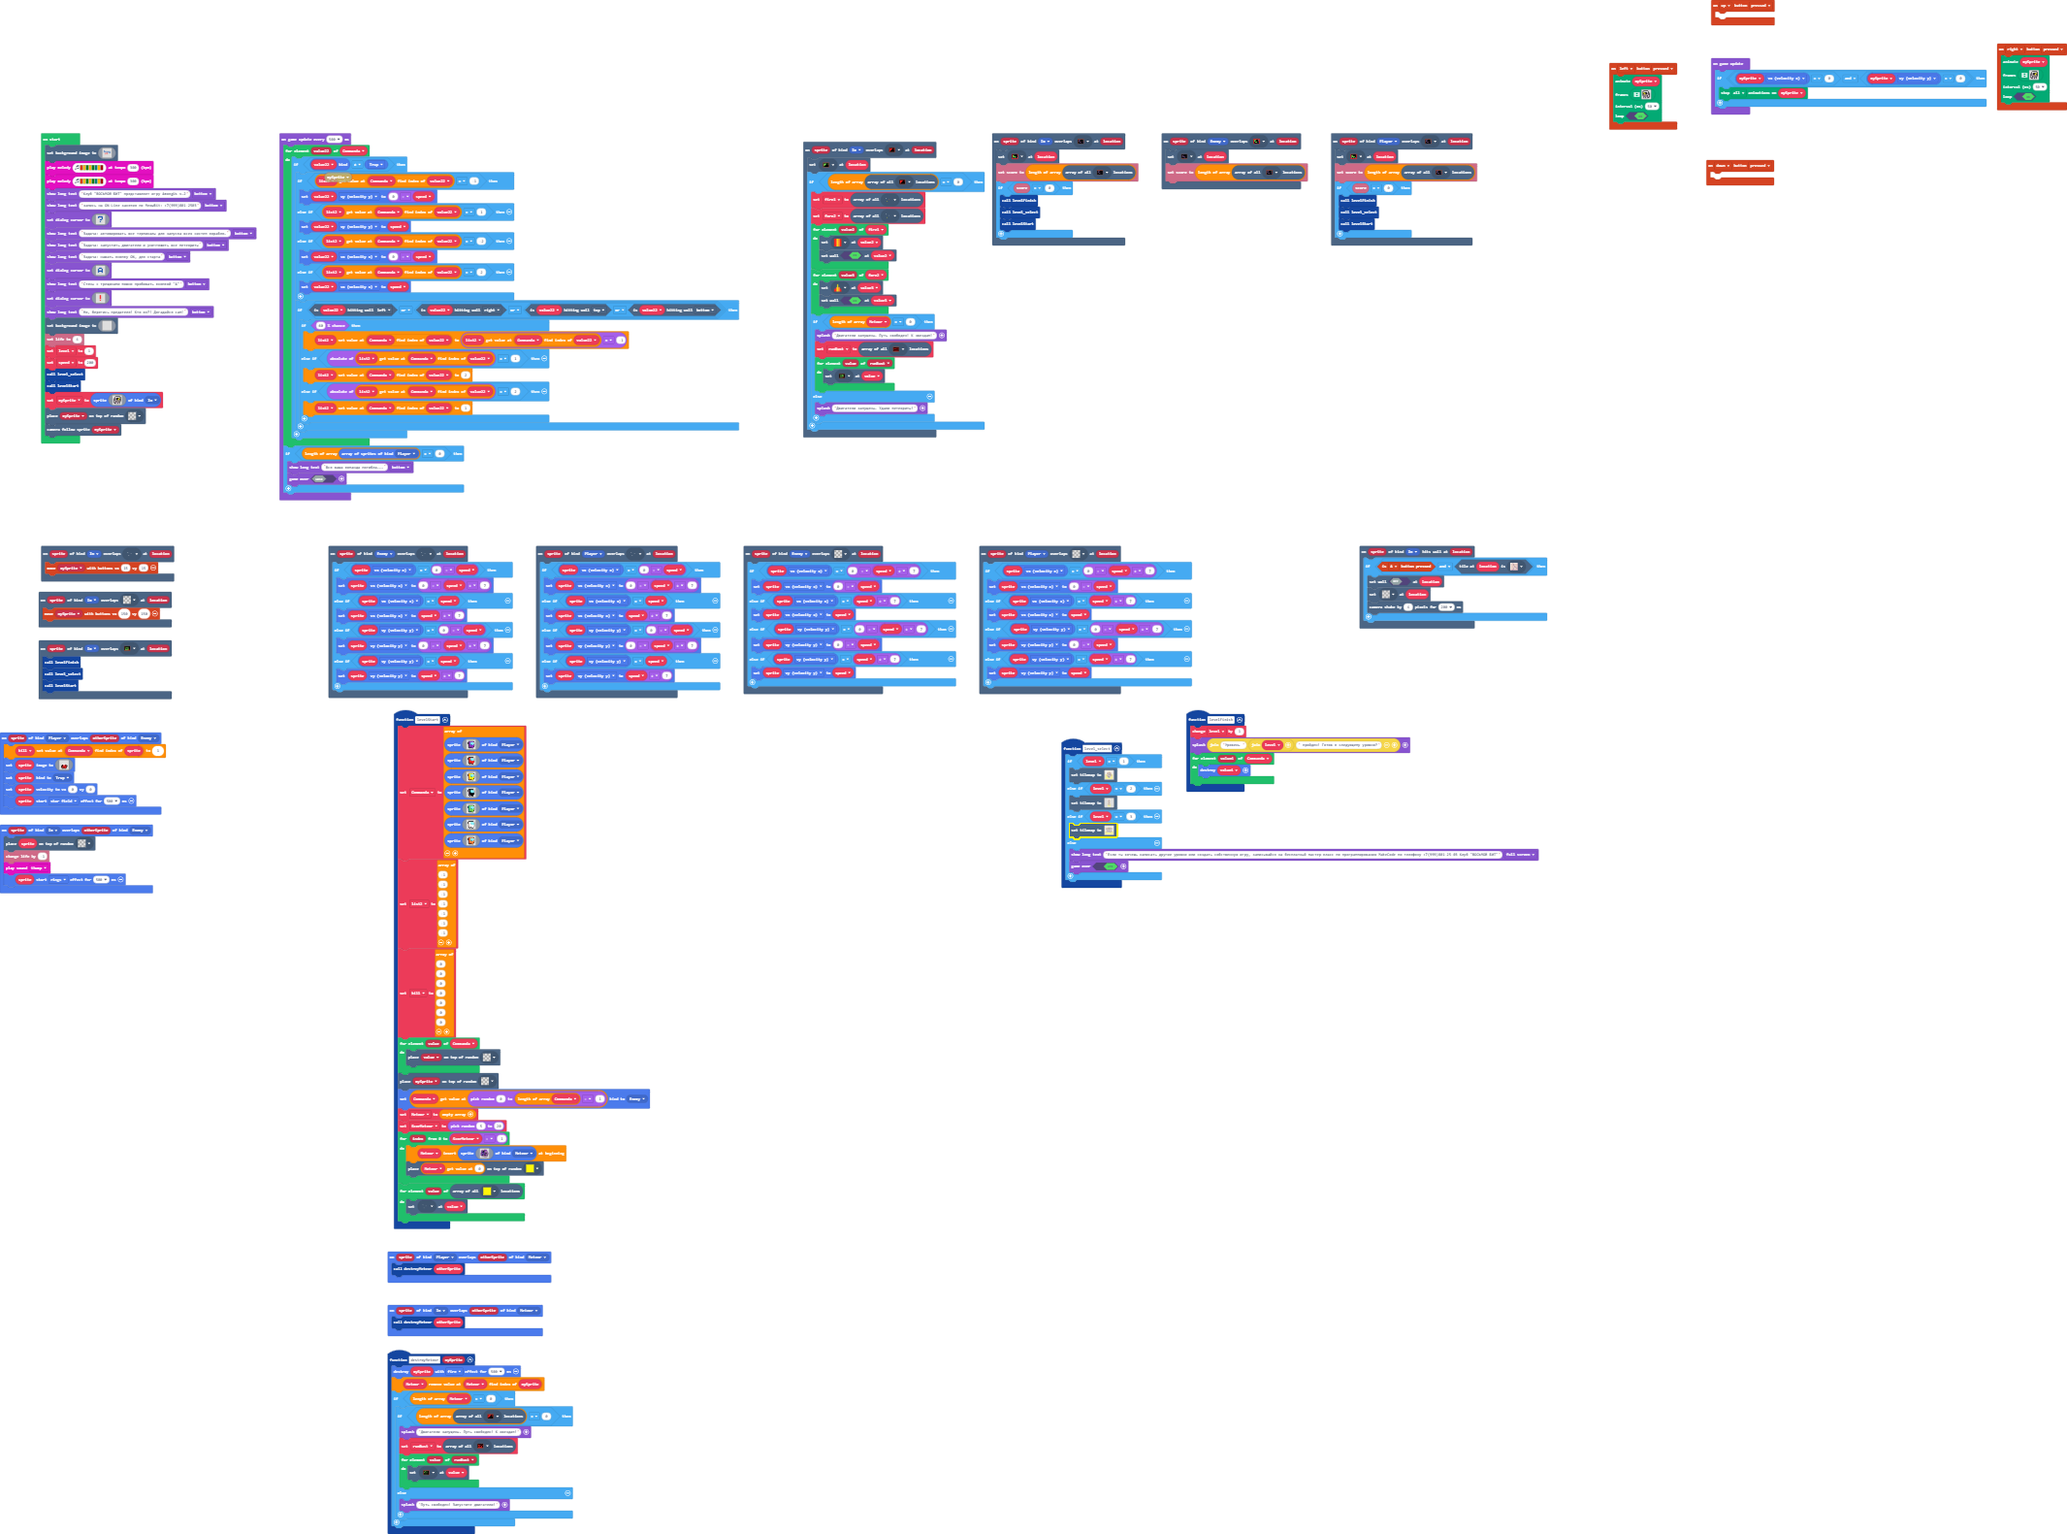
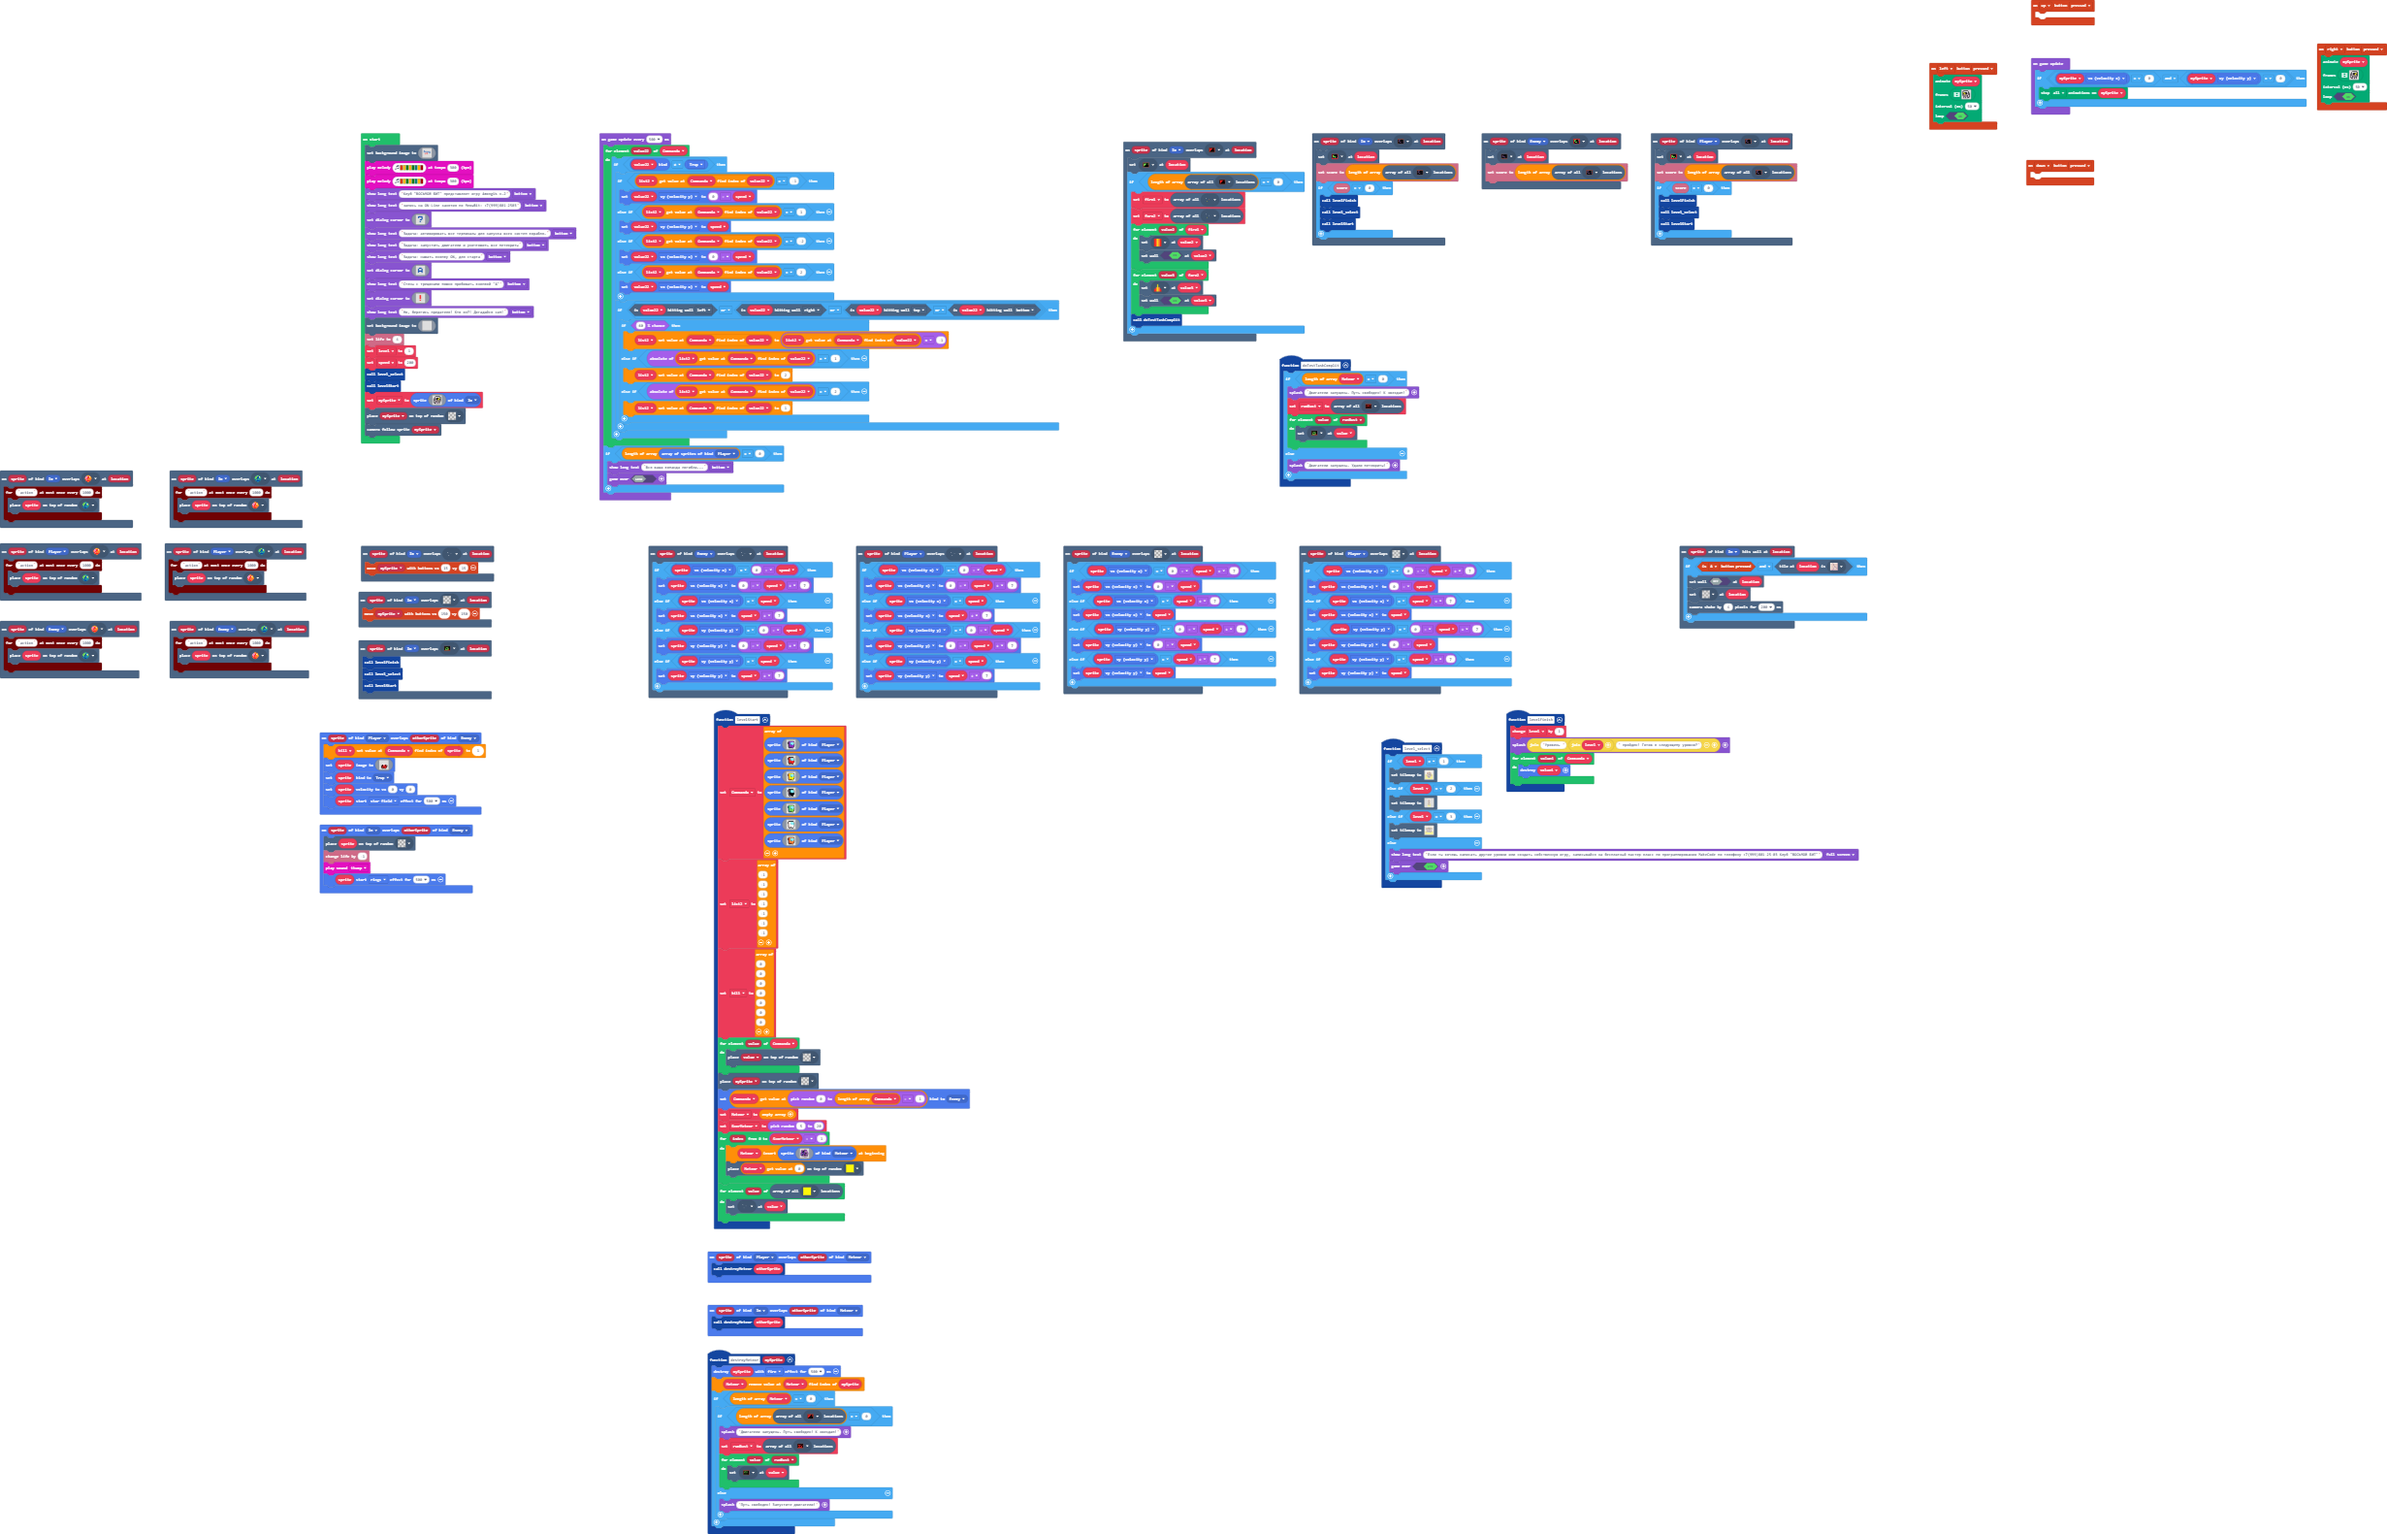
Update pxt.json, main.blocks, main.ts, tilemap.g.jres, tilemap.g.ts

Changed region(s): [[0.0, 0.062, 0.7743, 1.0], [0.7743, 0.0, 1.0, 0.124], [0.7433, 0.5269, 0.7743, 0.5579]]

diff --git a/tilemap.g.ts b/tilemap.g.ts
@@ -73,39 +73,6 @@ namespace myTiles {
 . . . . . . . . . . . . . . . . 
 . . . . . . . . . . . . . . . . 
 `, [myTiles.transparency16], TileScale.Sixteen);
-            case "level1":
[1 lines of base64/hex data omitted]
-...........................
-...........................
-...........................
-...........................
-.......2.2..2..2..2.2......
-......2222222222222222.....
-......2...........2..2.....
-......2.22222.222.22.2.....
-......2....2...2.....2.....
-......2....2...2.....2.....
-......222..22222222222.....
-......2....2...2.2...2.....
-......2.2.22...2.....2.....
-....2.2.2......2.....2.2...
-....2.2.2..2...2.2...2.2...
-....222.2..22222.2222222...
-....2.2.2..2...2.2...2.2...
-....2.2.2......2.2...2.2...
-.....22.222222.2.222.22....
-......2..............2.....
-......22.2.22222.22222.....
-.......2...2...2....2......
-........2..........2.......
-.........2........2........
-..........2......2.........
-...........222222..........
-...........................
-...........................
-...........................
-...........................
-`, [myTiles.transparency16,sprites.dungeon.floorLight2,sprites.dungeon.floorLight5,myTiles.tile1,myTiles.tile5,myTiles.tile6,myTiles.tile7,sprites.dungeon.doorLockedSouth,sprites.dungeon.floorLight0,sprites.dungeon.stairSouth,sprites.dungeon.stairNorth,myTiles.tile8,sprites.dungeon.hazardWater,myTiles.tile12,myTiles.tile14,sprites.castle.shrub], TileScale.Sixteen);
             case "level4":
[1 lines of base64/hex data omitted]
 ................
@@ -186,6 +153,39 @@ namespace myTiles {
 ..............................
 ..............................
 `, [myTiles.transparency16,myTiles.tile1,myTiles.tile5,myTiles.tile6,myTiles.tile7,myTiles.tile8,myTiles.tile12,sprites.dungeon.floorLight2,sprites.dungeon.floorLight5,sprites.dungeon.stairSouth,sprites.dungeon.stairEast,sprites.dungeon.stairWest,sprites.dungeon.stairNorth,sprites.dungeon.doorLockedSouth,sprites.builtin.forestTiles0,sprites.castle.shrub,sprites.castle.rock2,myTiles.tile14,myTiles.tile10,myTiles.tile16,sprites.dungeon.collectibleBlueCrystal,sprites.dungeon.collectibleRedCrystal,sprites.swamp.swampTile0,sprites.swamp.swampTile1,sprites.swamp.swampTile2,sprites.swamp.swampTile3,sprites.dungeon.hazardWater], TileScale.Sixteen);
+            case "level1":
[1 lines of base64/hex data omitted]
+...........................
+...........................
+...........................
+...........................
+.......2.2..2..2..2.2......
+......2222222222222222.....
+......2...........2..2.....
+......2.22222.222.22.2.....
+......2....2...2.....2.....
+......2....2...2.....2.....
+......222..22222222222.....
+......2....2...2.2...2.....
+......2.2.22...2.....2.....
+....2.2.2......2.....2.2...
+....2.2.2..2...2.2...2.2...
+....222.2..22222.2222222...
+....2.2.2..2...2.2...2.2...
+....2.2.2......2.2...2.2...
+....222.222222.2.222.222...
+.....22..............22....
+......22.2.22222.22222.....
+.......2...2...2....2......
+.......22..........22......
+........22........22.......
+.........22......22........
+..........22222222.........
+...........................
+...........................
+...........................
+...........................
+`, [myTiles.transparency16,sprites.dungeon.floorLight2,sprites.dungeon.floorLight5,myTiles.tile1,myTiles.tile5,myTiles.tile6,myTiles.tile7,sprites.dungeon.doorLockedSouth,sprites.dungeon.floorLight0,sprites.dungeon.stairSouth,sprites.dungeon.stairNorth,myTiles.tile8,sprites.dungeon.hazardWater,myTiles.tile12,myTiles.tile14,sprites.castle.shrub,myTiles.tile10,myTiles.tile16,sprites.dungeon.collectibleRedCrystal,sprites.dungeon.collectibleBlueCrystal], TileScale.Sixteen);
         }
         return null;
     })

diff --git a/main.ts b/main.ts
@@ -188,6 +188,11 @@ function levelStart () {
         tiles.setTileAt(value, assets.tile`tile6`)
     }
 }
+scene.onOverlapTile(SpriteKind.Im, sprites.dungeon.collectibleRedCrystal, function (sprite, location) {
+    timer.throttle("action", 1000, function () {
+        tiles.placeOnRandomTile(sprite, sprites.dungeon.collectibleBlueCrystal)
+    })
+})
 controller.up.onEvent(ControllerButtonEvent.Pressed, function () {
 	
 })
@@ -218,6 +223,17 @@ function destroyMeteor (mySprite: Sprite) {
         } else {
             game.splash("Путь свободен! Запустите двигатели!")
         }
+    }
+}
+function doTestTaskComplit () {
+    if (Meteor.length == 0) {
+        game.splash("Двигатели запущены. Путь свободен! К звездам!")
+        runBust = tiles.getTilesByType(assets.tile`tile12`)
+        for (let value of runBust) {
+            tiles.setTileAt(value, assets.tile`tile13`)
+        }
+    } else {
+        game.splash("Двигатели запущены. Удали метеориты!")
     }
 }
 sprites.onOverlap(SpriteKind.Im, SpriteKind.Meteor, function (sprite, otherSprite) {
@@ -368,9 +384,19 @@ controller.left.onEvent(ControllerButtonEvent.Pressed, function () {
     true
     )
 })
+scene.onOverlapTile(SpriteKind.Enemy, sprites.dungeon.collectibleBlueCrystal, function (sprite, location) {
+    timer.throttle("action", 1000, function () {
+        tiles.placeOnRandomTile(sprite, sprites.dungeon.collectibleRedCrystal)
+    })
+})
 scene.onOverlapTile(SpriteKind.Enemy, assets.tile`tile2`, function (sprite, location) {
     tiles.setTileAt(location, assets.tile`tile1`)
     info.setScore(tiles.getTilesByType(assets.tile`tile1`).length)
+})
+scene.onOverlapTile(SpriteKind.Player, sprites.dungeon.collectibleBlueCrystal, function (sprite, location) {
+    timer.throttle("action", 1000, function () {
+        tiles.placeOnRandomTile(sprite, sprites.dungeon.collectibleRedCrystal)
+    })
 })
 scene.onOverlapTile(SpriteKind.Player, assets.tile`tile1`, function (sprite, location) {
     tiles.setTileAt(location, assets.tile`tile2`)
@@ -533,6 +559,11 @@ scene.onOverlapTile(SpriteKind.Player, assets.tile`tile6`, function (sprite, loc
         sprite.vy = speed / 7
     }
 })
+scene.onOverlapTile(SpriteKind.Im, sprites.dungeon.collectibleBlueCrystal, function (sprite, location) {
+    timer.throttle("action", 1000, function () {
+        tiles.placeOnRandomTile(sprite, sprites.dungeon.collectibleRedCrystal)
+    })
+})
 controller.down.onEvent(ControllerButtonEvent.Pressed, function () {
 	
 })
@@ -579,15 +610,7 @@ scene.onOverlapTile(SpriteKind.Im, assets.tile`tile-off`, function (sprite, loca
             tiles.setTileAt(value3, assets.tile`tile0`)
             tiles.setWallAt(value3, true)
         }
-        if (Meteor.length == 0) {
-            game.splash("Двигатели запущены. Путь свободен! К звездам!")
-            runBust = tiles.getTilesByType(assets.tile`tile12`)
-            for (let value of runBust) {
-                tiles.setTileAt(value, assets.tile`tile13`)
-            }
-        } else {
-            game.splash("Двигатели запущены. Удали метеориты!")
-        }
+        doTestTaskComplit()
     }
 })
 scene.onOverlapTile(SpriteKind.Im, assets.tile`tile6`, function (sprite, location) {
@@ -607,6 +630,11 @@ scene.onOverlapTile(SpriteKind.Player, assets.tile`transparency16`, function (sp
         sprite.vy = speed
     }
 })
+scene.onOverlapTile(SpriteKind.Player, sprites.dungeon.collectibleRedCrystal, function (sprite, location) {
+    timer.throttle("action", 1000, function () {
+        tiles.placeOnRandomTile(sprite, sprites.dungeon.collectibleBlueCrystal)
+    })
+})
 function levelFinish () {
     level += 1
     game.splash("Уровень " + ("" + level) + " пройден! Готов к следующему уровню?")
@@ -614,6 +642,11 @@ function levelFinish () {
         value4.destroy()
     }
 }
+scene.onOverlapTile(SpriteKind.Enemy, sprites.dungeon.collectibleRedCrystal, function (sprite, location) {
+    timer.throttle("action", 1000, function () {
+        tiles.placeOnRandomTile(sprite, sprites.dungeon.collectibleBlueCrystal)
+    })
+})
 sprites.onOverlap(SpriteKind.Player, SpriteKind.Enemy, function (sprite, otherSprite) {
     kill[Commanda.indexOf(sprite)] = 1
     sprite.setImage(img`
